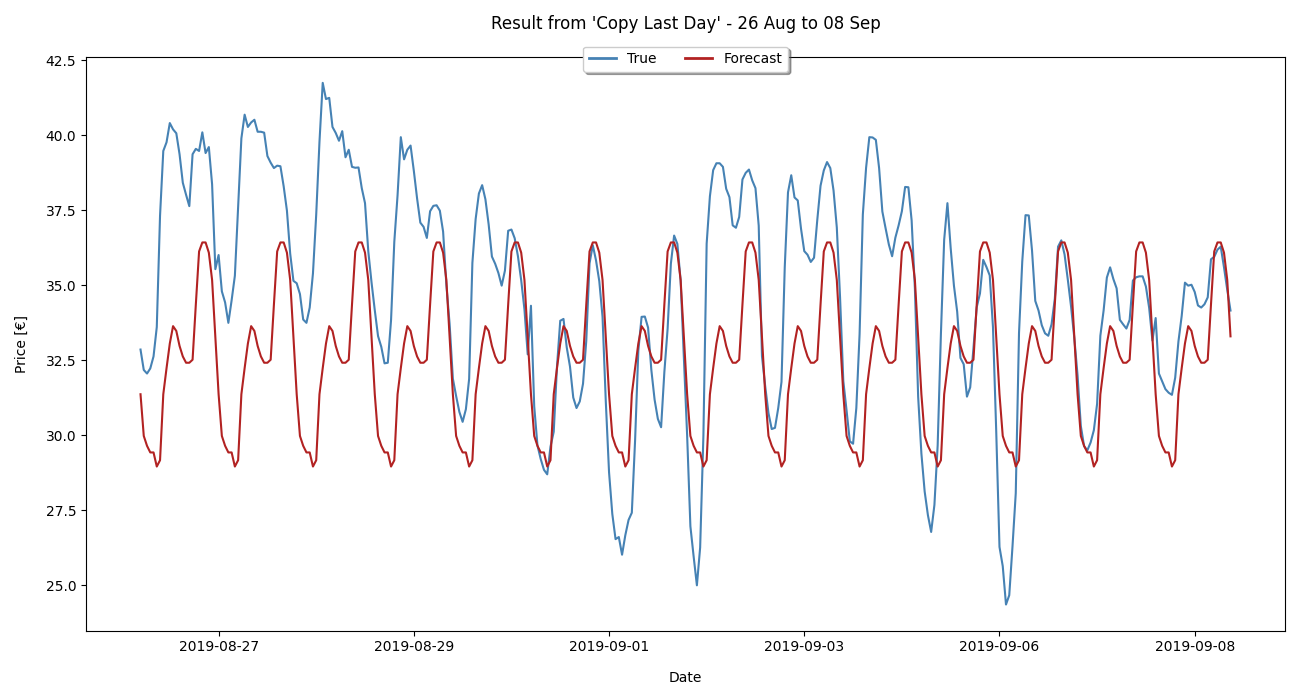
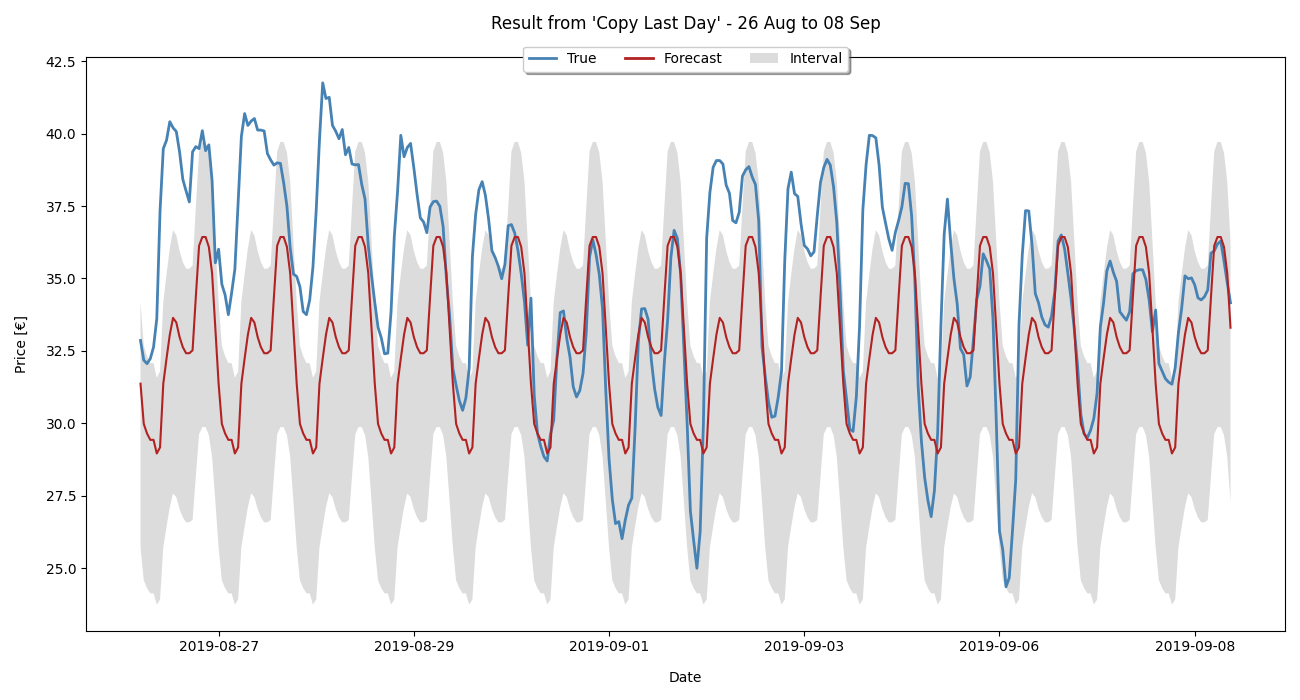
valideringstest også på intervall

diff --git a/src/system/validate.py b/src/system/validate.py
@@ -11,7 +11,7 @@ import datetime as dt
 import math
 
 
-def validate(model, periods):
+def validate(model, periods, plot):  # plot is boolean value, if you want to plot results
     print("-- Running validation using Model '{}' --".format(model.get_name()))
     result_list = []
     for i in range(len(periods)):
@@ -20,16 +20,23 @@ def validate(model, periods):
         result_df = true_price_df.merge(forecast_df, on=["Date", "Hour"], how="outer")
         result_list.append(result_df)
     result_path = get_result_folder(model)
-    for i in range(len(result_list)):
-        plot_result(result_list[i], periods[i], result_path, model.get_name(), str(i + 1))
+    if plot:
+        for i in range(len(result_list)):
+            plot_result(result_list[i], periods[i], result_path, model.get_name(), str(i + 1))
     calculate_point_performance(result_list, result_path, model)
+    calculate_interval_performance(result_list, result_path, model)
+    print("\nResults are saved to 'src/" + result_path[3:] + "'")
 
 
 def get_forecast(model, period):
     print("Forecasting from {} to {}".format(period[0], period[1]))
     time_df = get_data(period[0], period[1], [], os.getcwd())
     time_df["Forecast"] = np.nan
-    return model.get_point_forecast(time_df)
+    point_forecast = model.get_point_forecast(time_df)
+    point_forecast["Upper"] = np.nan
+    point_forecast["Lower"] = np.nan
+    prob_forecast = model.get_prob_forecast(point_forecast)
+    return prob_forecast
 
 
 def get_result_folder(model):
@@ -54,8 +61,12 @@ def plot_result(result, period, dir_path, model_name, period_no):
     result["DateTime"] = result.apply(lambda r: dt.datetime.combine(r['Date'], r['Hour']), 1)
     print("Plotting from {} to {}".format(period[0], period[1]))
     fig, ax = plt.subplots(figsize=img_size)
-    plt.plot(result["DateTime"], result["System Price"], label="True", color=true_color)
+    plt.plot(result["DateTime"], result["System Price"], label="True", color=true_color, linewidth=2)
     plt.plot(result["DateTime"], result["Forecast"], label="Forecast", color=fc_color)
+    # plt.plot(result["DateTime"], result["Upper"], "--", label="Interval", color=fc_color)
+    # plt.plot(result["DateTime"], result["Lower"], "--", color=fc_color)
+    plt.gca().fill_between(result["DateTime"], result["Upper"], result["Lower"],
+                           facecolor='gainsboro', interpolate=True, label="Interval")
     for line in plt.legend(loc='upper center', ncol=5, bbox_to_anchor=(0.5, 1.03),
                            fancybox=True, shadow=True).get_lines():
         line.set_linewidth(2)
@@ -73,7 +84,7 @@ def plot_result(result, period, dir_path, model_name, period_no):
 
 
 def calculate_point_performance(result_list, dir_path, model):
-    print("\nCalculating point performance:")
+    print("Calculating point performance for all periods")
     mapes = []
     smapes = []
     maes = []
@@ -100,6 +111,51 @@ def calculate_point_performance(result_list, dir_path, model):
     for line in lines:
         summary.write(line)
     summary.close()
+
+
+def calculate_interval_performance(result_list, dir_path, model):
+    print("Calculating point performance for all periods")
+    coverages = []
+    cov_errors = []
+    for result in result_list:
+        result['Hit'] = result.apply(lambda row: 1 if row["Lower"] <= row["System Price"] <=
+                                                      row["Upper"] else 0, axis=1)
+        coverage = sum(result["Hit"]) / len(result)
+        cov_error = abs(coverage - 0.95)
+        coverages.append(coverage)
+        cov_errors.append(cov_error)
+    a_coverage = sum(coverages) / len(coverages)
+    ace = abs(a_coverage - 0.95)
+    summary = open(dir_path + "/performance.txt", "a")
+    summary.write("\nInterval performance: \nCov:\t{:.1f}%\nACE:\t{:.1f}%".format(a_coverage * 100, ace * 100))
+    int_scores = get_interval_scores(result_list)
+    mean_int_score = sum(int_scores) / len(int_scores)
+    summary.write("\nMIS:\t{:.2f}\n".format(mean_int_score))
+    summary.write("\nCoverages:\t{}".format(get_lst_as_str(coverages, 3)))
+    summary.write("\nI. scores:\t{}".format(get_lst_as_str(int_scores, 2)))
+    summary.close()
+
+
+def get_lst_as_str(input_list, decimals):
+    string = str([round(a, decimals) for a in input_list])[1:-1]
+    return string
+
+
+def get_interval_scores(result_list):
+    interval_scores = []
+    for result in result_list:
+        t_values = []
+        for index, row in result.iterrows():
+            u = row["Upper"]
+            l = row["Lower"]
+            y = row["System Price"]
+            func_l = 1 if y < l else 0
+            func_u = 1 if y > u else 0
+            t = (u - l) + (2 / 0.05) * (l - y) * func_l + (2 / 0.05) * (y - u) * func_u
+            t_values.append(t)
+        interval_score = sum(t_values) / len(t_values)
+        interval_scores.append(interval_score)
+    return interval_scores
 
 
 def calculate_mape(result):
@@ -149,4 +205,4 @@ def calculate_rmse(result):
 if __name__ == '__main__':
     model_ = copy_last_day.CopyLastDayModel()
     periods_ = get_four_periods_median_method(write_summary=False)
-    validate(model_, periods_)
+    validate(model_, periods_, plot=True)

diff --git a/src/models/benchmarks/copy_last_day.py b/src/models/benchmarks/copy_last_day.py
@@ -5,6 +5,7 @@ import pandas as pd
 from data import data_handler
 import os
 import numpy as np
+import random
 
 
 class CopyLastDayModel:
@@ -34,6 +35,18 @@ class CopyLastDayModel:
             forecast_df.at[index, "Forecast"] = forecast_hour
         return forecast_df
 
+    @staticmethod
+    def get_prob_forecast(forecast_df):  # forecast_df is dataframe with ["Date", "Hour", "Forecast", "Upper", "Lower"]
+        for index, row in forecast_df.iterrows():
+            point_f = row["Forecast"]
+            random.seed(1)
+            random_factor_up = random.randint(105, 120)
+            upper_f = point_f * (random_factor_up / 100)
+            forecast_df.at[index, "Upper"] = upper_f
+            random_factor_down = random.randint(80, 95)
+            lower_f = point_f * (random_factor_down / 100)
+            forecast_df.at[index, "Lower"] = lower_f
+        return forecast_df
 
 if __name__ == '__main__':
     model = CopyLastDayModel()

diff --git a/src/main.py b/src/main.py
@@ -1,4 +1,5 @@
 # script for running methods
 
+
 if __name__ == '__main__':
     print("-- Hello masteroppgave --")
